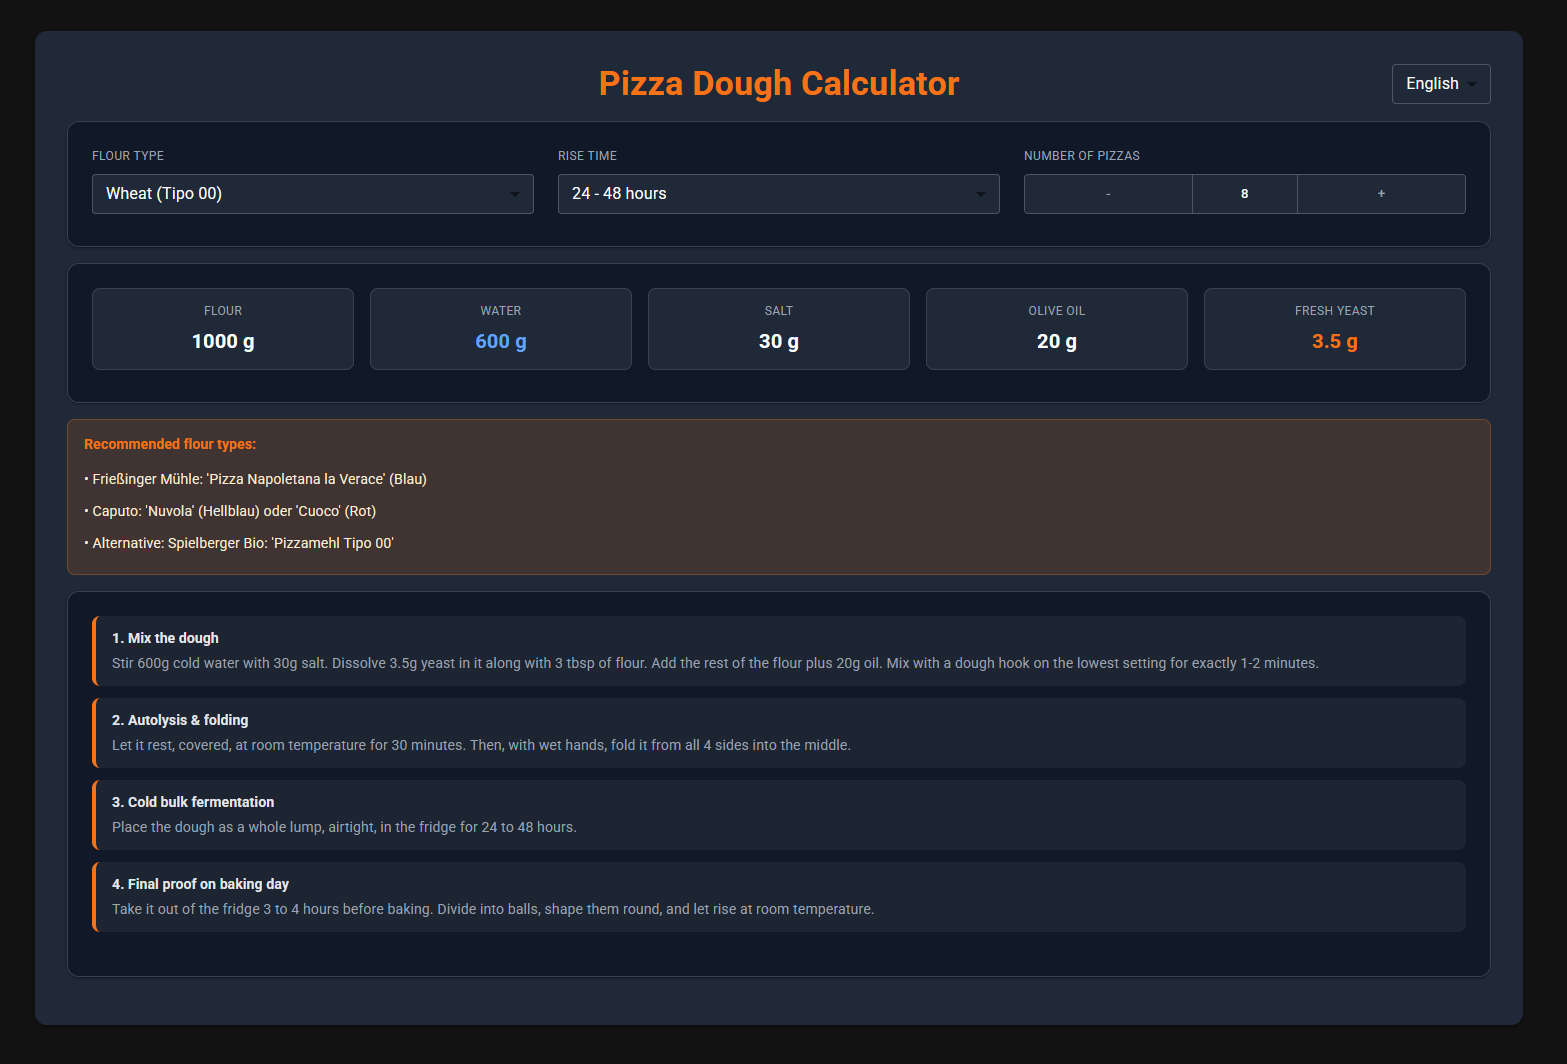
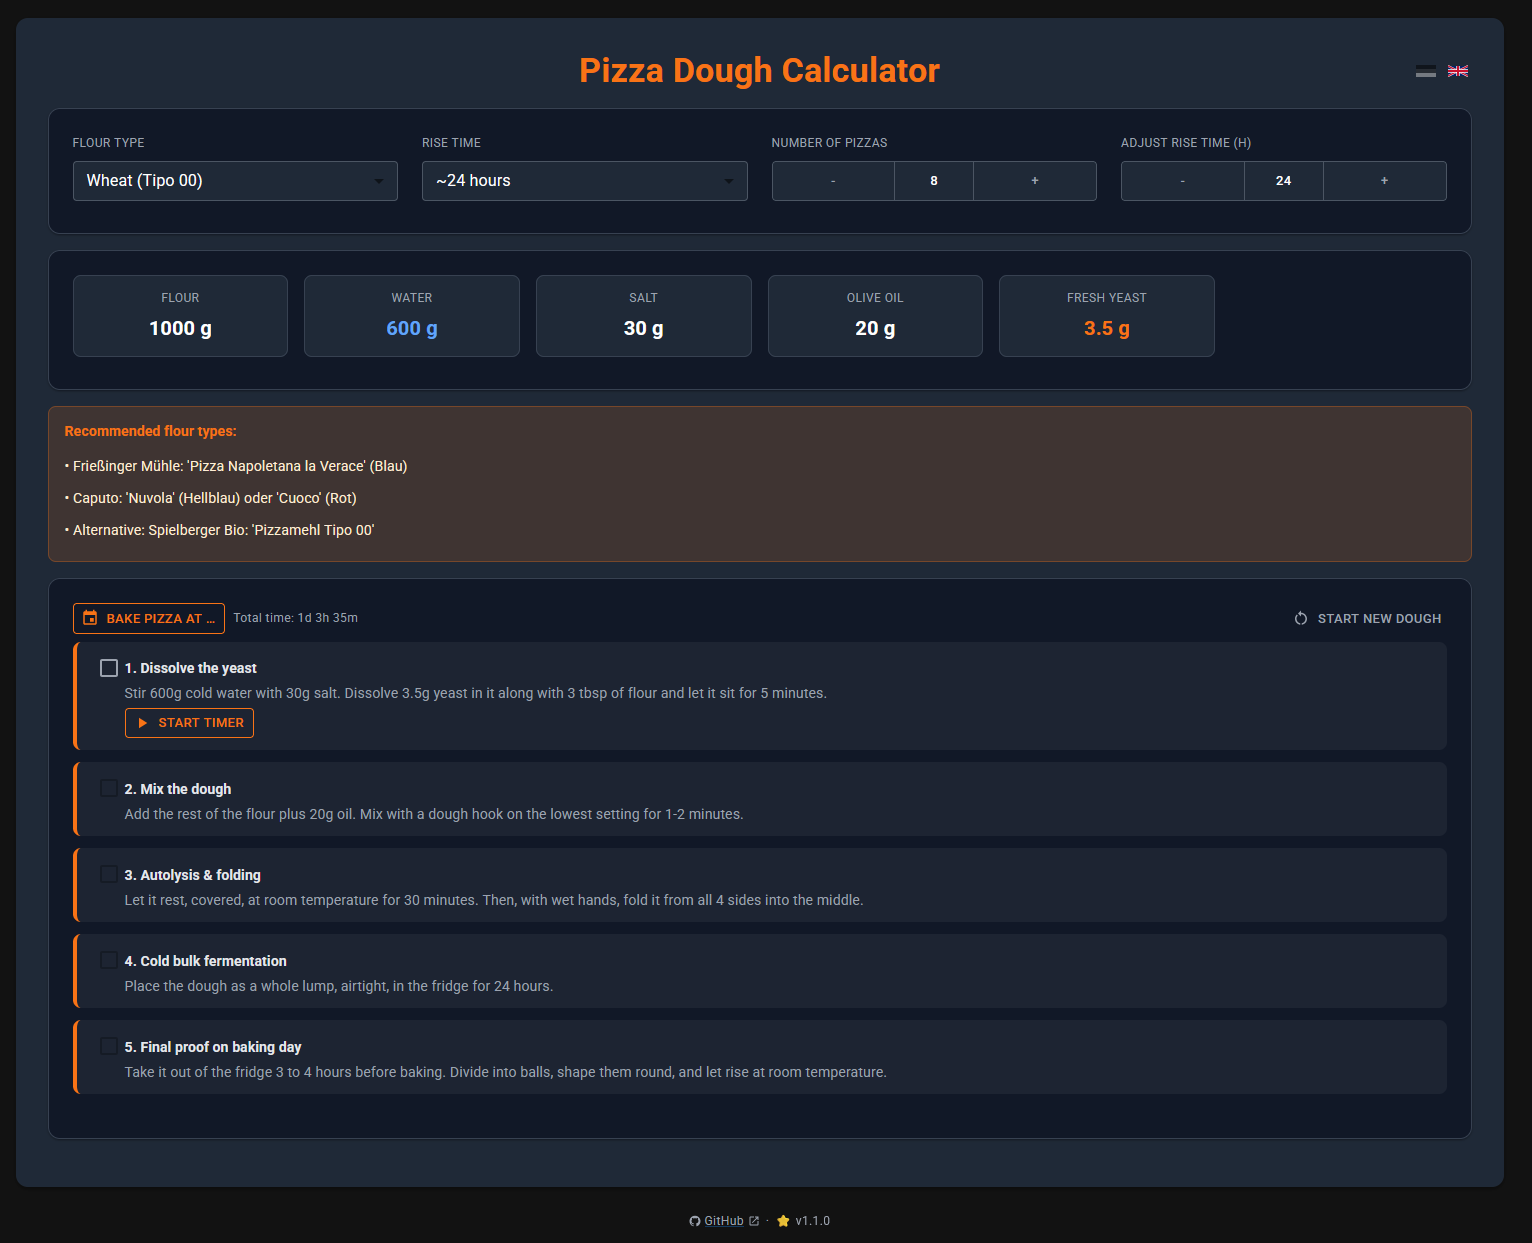
Update readme and screenshot

diff --git a/README.de.md b/README.de.md
@@ -12,10 +12,14 @@ Die Rezepte basieren auf verschiedenen Rezepten, die ich ausprobiert habe und si
 - Teig aus Weizen-, Dinkel- oder glutenfreiem Mehl
 - Gehzeiten von einem schnellen 2-3-Stunden-Express-Teig bis zur 72-Stunden-Kaltführung
 - Skaliert alle Zutatenmengen auf eine beliebige Anzahl Pizzen
-- Schritt-für-Schritt-Zubereitungsanleitung für das gewählte Rezept
+- Schritt-für-Schritt-Zubereitungsanleitung für das gewählte Rezept, mit Checkboxen zum Festhalten deines Fortschritts
+- Live-Countdown-Timer für Gehzeiten/Ruhephasen, mit Uhrzeit "fertig um" und Browser-Benachrichtigung, wenn ein Schritt fertig ist
+- Lange Gehzeiten/Kaltführungen lassen sich nach Bedarf verkürzen oder verlängern (z. B. 65 Std. statt 72 Std.)
+- Backzeit festlegen: die App berechnet, wann du den Teig starten musst, und zählt rückwärts
+- "Neuen Teig starten" setzt den Fortschritt für das aktuelle Rezept zurück (mit Sicherheitsabfrage)
 - Verfügbar auf Deutsch und Englisch (automatisch je nach Browsersprache, in der App umschaltbar)
 - Installierbar als Progressive Web App (PWA) mit Offline-Unterstützung
-- Merkt sich deine letzten Einstellungen (Mehlsorte, Gehzeit, Pizzenanzahl) im Browser
+- Merkt sich deine letzten Einstellungen, deinen Fortschritt und die geplante Backzeit pro Rezept im Browser
 
 ![Screenshot](screenshot.png)
 

diff --git a/README.md b/README.md
@@ -12,10 +12,14 @@ The recipies are based on various recipies I tried and are a combination of what
 - Wheat, spelt and gluten-free dough
 - Rise times from a quick 2-3 hour express dough up to a 72-hour cold ferment
 - Scales all ingredient amounts to any number of pizzas
-- Step-by-step preparation instructions for the selected recipe
+- Step-by-step preparation instructions for the selected recipe, with checkboxes to track your progress
+- Live countdown timers for rise/rest steps, with a "ready at" clock time and a browser notification when a step is done
+- Adjust the long rise/ferment time up or down (e.g. 65h instead of 72h) to fit your schedule
+- Pick a target time to bake, and the app tells you when to start the dough and counts down to it
+- "Start new dough" resets your progress for the current recipe (with a confirmation dialog)
 - Available in German and English (auto-detected from your browser, switchable in the app)
 - Installable as a Progressive Web App (PWA) with offline support
-- Remembers your last settings (flour type, rise time, pizza count) in your browser
+- Remembers your last settings, step progress and scheduled bake time per recipe in your browser
 
 ![Screenshot](screenshot.png)
 